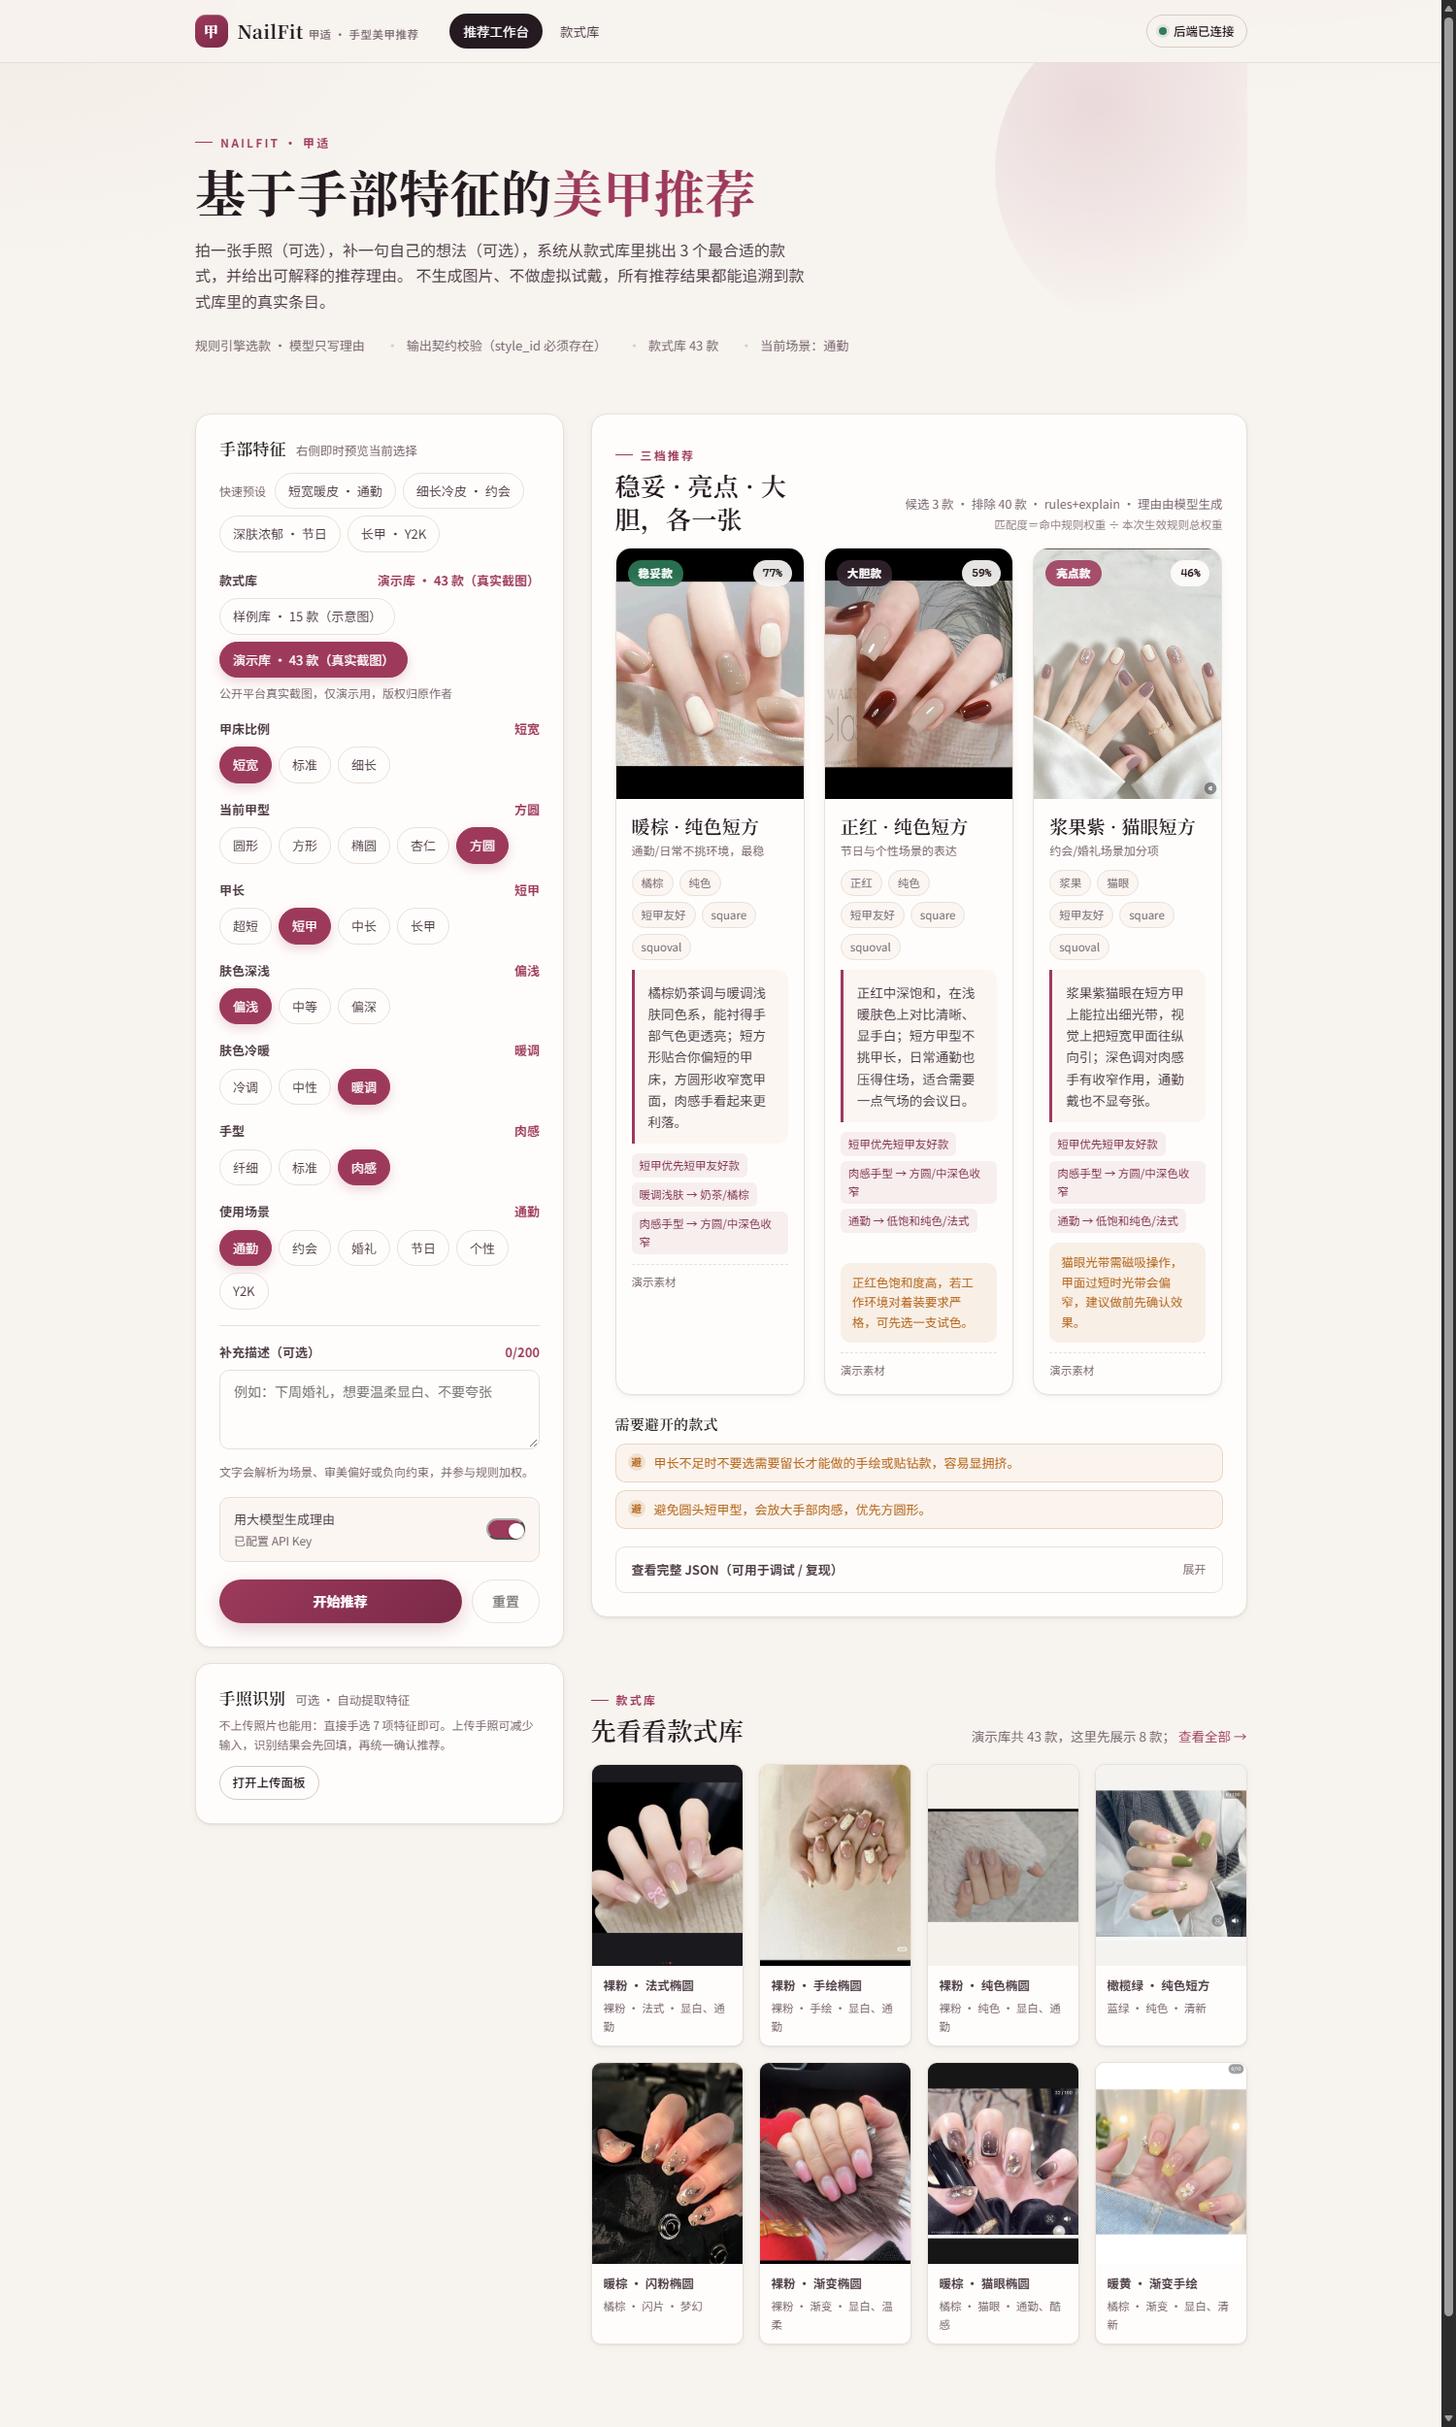
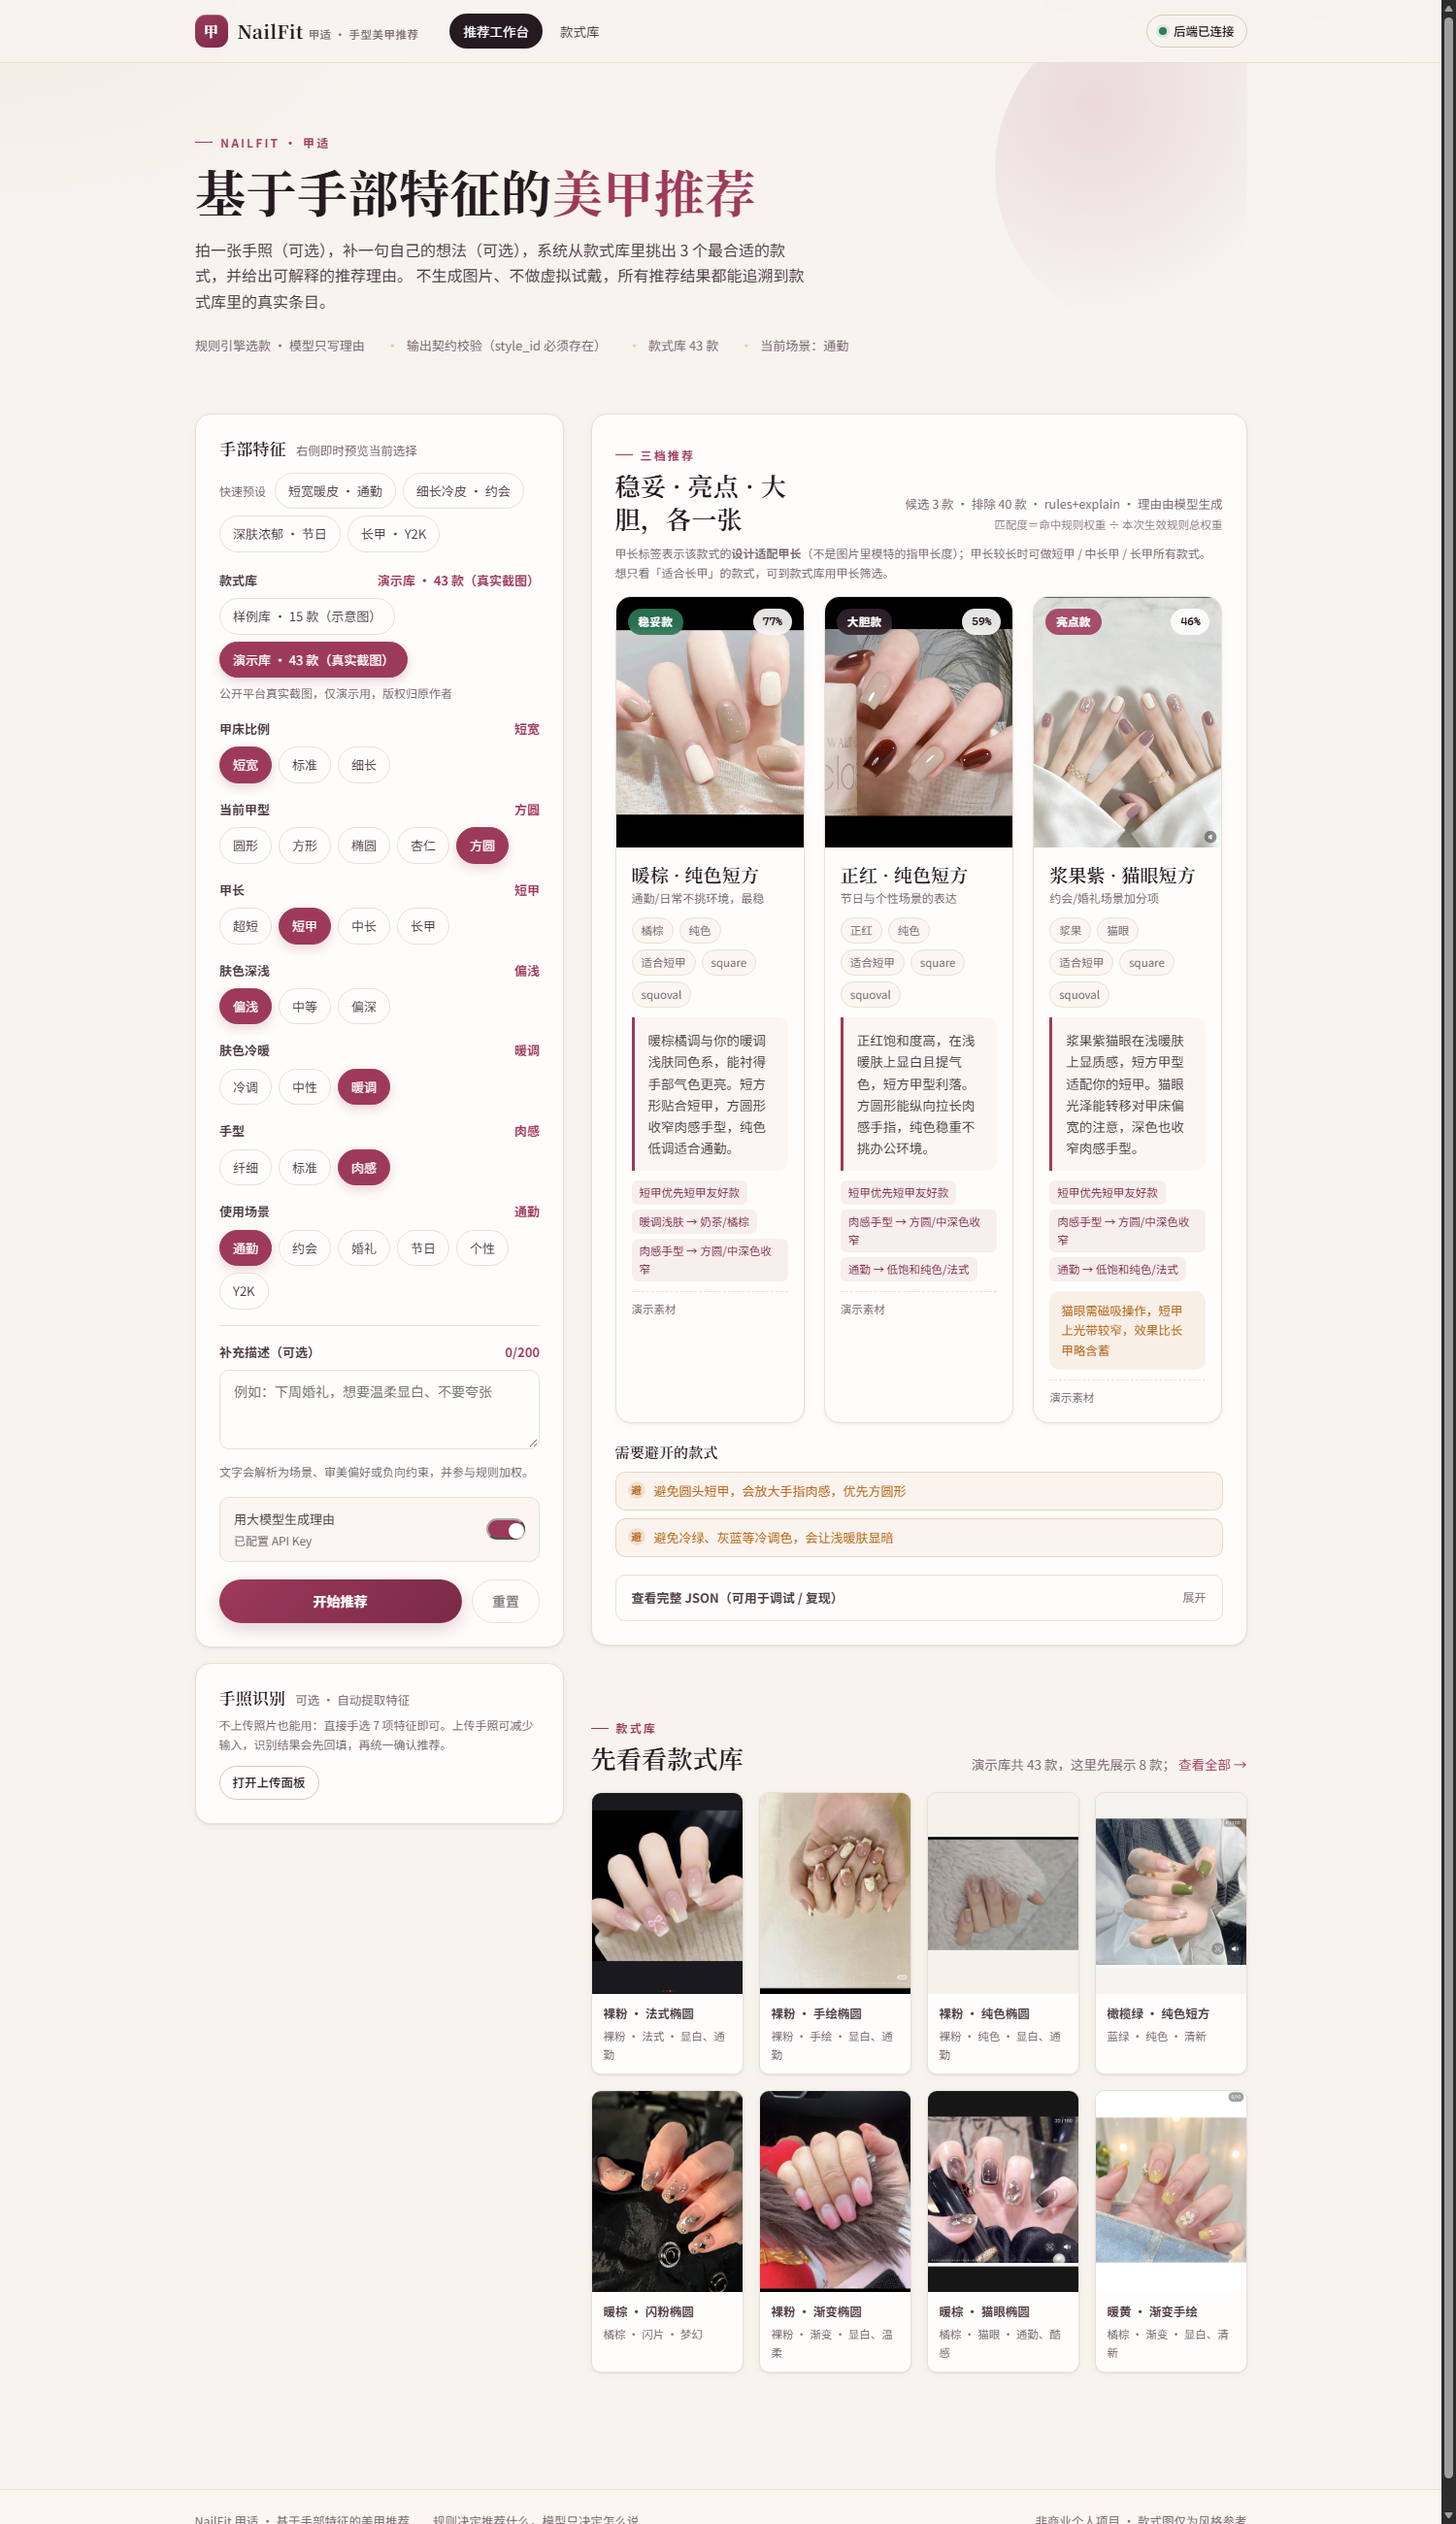
feat: 甲长标签语义澄清 + 款式库甲长筛选（M31）

diff --git a/src/components/StyleGallery.vue b/src/components/StyleGallery.vue
@@ -2,7 +2,7 @@
 import { computed, ref } from 'vue'
 import type { Style } from '../types'
 import { assetUrl } from '../api'
-import { COLOR_FAMILY_LABELS, STYLE_LABELS } from '../options'
+import { COLOR_FAMILY_LABELS, LENGTH_FIT_LABELS, STYLE_LABELS } from '../options'
 
 const props = withDefaults(
   defineProps<{
@@ -15,6 +15,7 @@ const props = withDefaults(
 
 const activeColor = ref('')
 const activeStyle = ref('')
+const activeLength = ref('')
 const keyword = ref('')
 
 const colorOptions = computed(() => {
@@ -37,11 +38,25 @@ const styleOptions = computed(() => {
   }))
 })
 
+const lengthOptions = computed(() => {
+  const counts = new Map<string, number>()
+  for (const s of props.styles) {
+    const value = s.length_fit || 'mid'
+    counts.set(value, (counts.get(value) ?? 0) + 1)
+  }
+  return [...counts.entries()].map(([value, count]) => ({
+    value,
+    label: LENGTH_FIT_LABELS[value] ?? value,
+    count,
+  }))
+})
+
 const filtered = computed(() => {
   const kw = keyword.value.trim().toLowerCase()
   const list = props.styles.filter((s) => {
     if (activeColor.value && s.color_family !== activeColor.value) return false
     if (activeStyle.value && s.style !== activeStyle.value) return false
+    if (activeLength.value && (s.length_fit || 'mid') !== activeLength.value) return false
     if (kw) {
       const haystack = `${s.id} ${s.name} ${s.tags.join(' ')}`.toLowerCase()
       if (!haystack.includes(kw)) return false
@@ -59,9 +74,14 @@ function toggleStyle(value: string): void {
   activeStyle.value = activeStyle.value === value ? '' : value
 }
 
+function toggleLength(value: string): void {
+  activeLength.value = activeLength.value === value ? '' : value
+}
+
 function resetFilters(): void {
   activeColor.value = ''
   activeStyle.value = ''
+  activeLength.value = ''
   keyword.value = ''
 }
 </script>
@@ -115,8 +135,29 @@ function resetFilters(): void {
       >
         {{ opt.label }} <span class="count">{{ opt.count }}</span>
       </button>
+    </div>
+
+    <div v-if="filters" class="filter-row">
       <button
-        v-if="activeColor || activeStyle || keyword"
+        class="chip"
+        :class="{ active: !activeLength }"
+        type="button"
+        @click="activeLength = ''"
+      >
+        全部甲长
+      </button>
+      <button
+        v-for="opt in lengthOptions"
+        :key="opt.value"
+        class="chip"
+        :class="{ active: activeLength === opt.value }"
+        type="button"
+        @click="toggleLength(opt.value)"
+      >
+        {{ opt.label }} <span class="count">{{ opt.count }}</span>
+      </button>
+      <button
+        v-if="activeColor || activeStyle || activeLength || keyword"
         class="btn btn-ghost btn-sm"
         type="button"
         style="margin-left: auto"

diff --git a/src/components/ResultBoard.vue b/src/components/ResultBoard.vue
@@ -70,6 +70,10 @@ function download(): void {
       </p>
     </div>
 
+    <p v-if="result" class="field-note" style="margin: -4px 0 14px">
+      甲长标签表示该款式的<strong>设计适配甲长</strong>（不是图片里模特的指甲长度）；甲长较长时可做短甲 / 中长甲 / 长甲所有款式。想只看「适合长甲」的款式，可到款式库用甲长筛选。
+    </p>
+
     <div v-if="error" class="alert alert-error">{{ error }}</div>
 
     <div v-else-if="busy && !tiers.length" class="result-grid">

diff --git a/src/options.ts b/src/options.ts
@@ -162,9 +162,9 @@ export const STYLE_LABELS: Record<string, string> = {  solid: '纯色',
 }
 
 export const LENGTH_FIT_LABELS: Record<string, string> = {
-  short: '短甲友好',
-  mid: '中长甲',
-  long: '长甲',
+  short: '适合短甲',
+  mid: '适合中长甲',
+  long: '适合长甲',
 }
 
 export const QUALITY_LABELS: Record<string, string> = {

diff --git a/README.md b/README.md
@@ -53,9 +53,10 @@ VITE_API_BASE=https://api.example.com
   - 三档结果卡（稳妥 / 亮点 / 大胆）：匹配度、命中规则、推荐理由、避雷提示、图片来源
   - 完整 JSON 展开 / 复制 / 下载，方便复现与调试
 - **手照识别**：拖拽或点击上传手照（≤12 MB），调用 `POST /api/vision/upload`，展示识别质量、手别、手势与各字段置信度；可一键回填表单（低置信字段会标注）
-- **款式库**：全部款式网格，按色系 / 款式筛选 + 关键词搜索，显示授权与来源说明
+- **款式库**：全部款式网格，按色系 / 款式 / 甲长筛选 + 关键词搜索，显示授权与来源说明
 - **款式库切换**：可选样例库（15 款精绘占位示意图）或演示库（43 款真实截图），切换后图廊与推荐结果同步更新；启动时调 `GET /api/libraries`，优先自动选图齐全的演示库，缺图时禁用该库并提示重跑 `prepare_images.py`
 - **图片授权标注**：演示库卡片标「演示素材」，样例库标「示意占位图 · 非真实款式」，来源页可点击；无 `DEEPSEEK_API_KEY` 时大模型开关自动置灰
+- **甲长语义与筛选**：甲长标签为「适合短甲 / 适合中长甲 / 适合长甲」，表示该款式的设计适配甲长（不是图片模特的指甲长度）；甲长较长时可做所有长度款式，想只看长甲款可在款式库按甲长筛选。演示库甲长为自动打标的启发式估算，正式库需人工复核。
 - 后端健康状态实时指示（顶部右上角），断连时给出明确提示
 
 ## 截图
